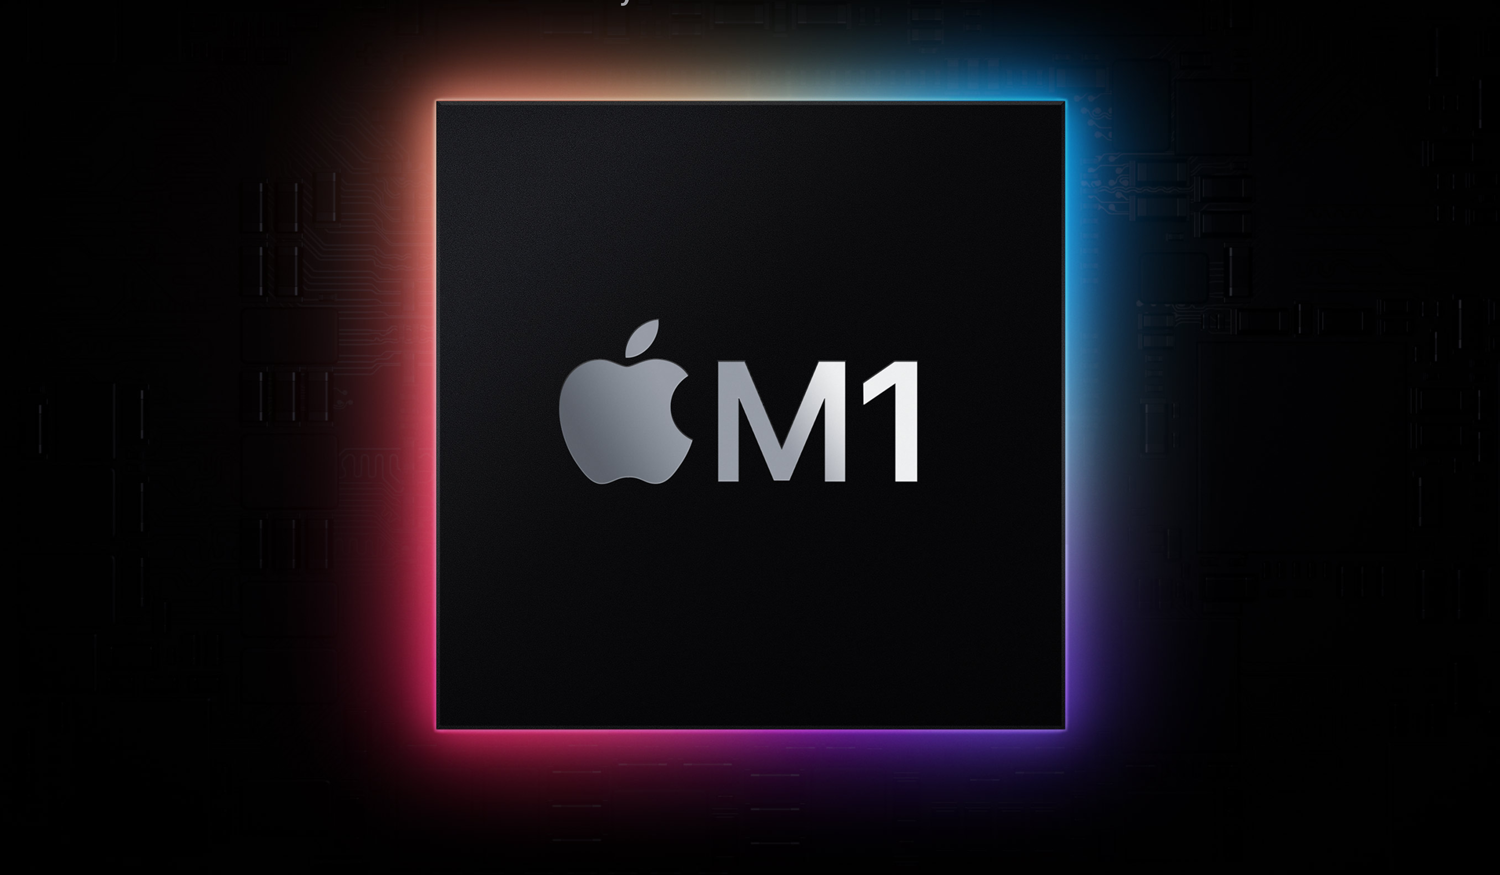
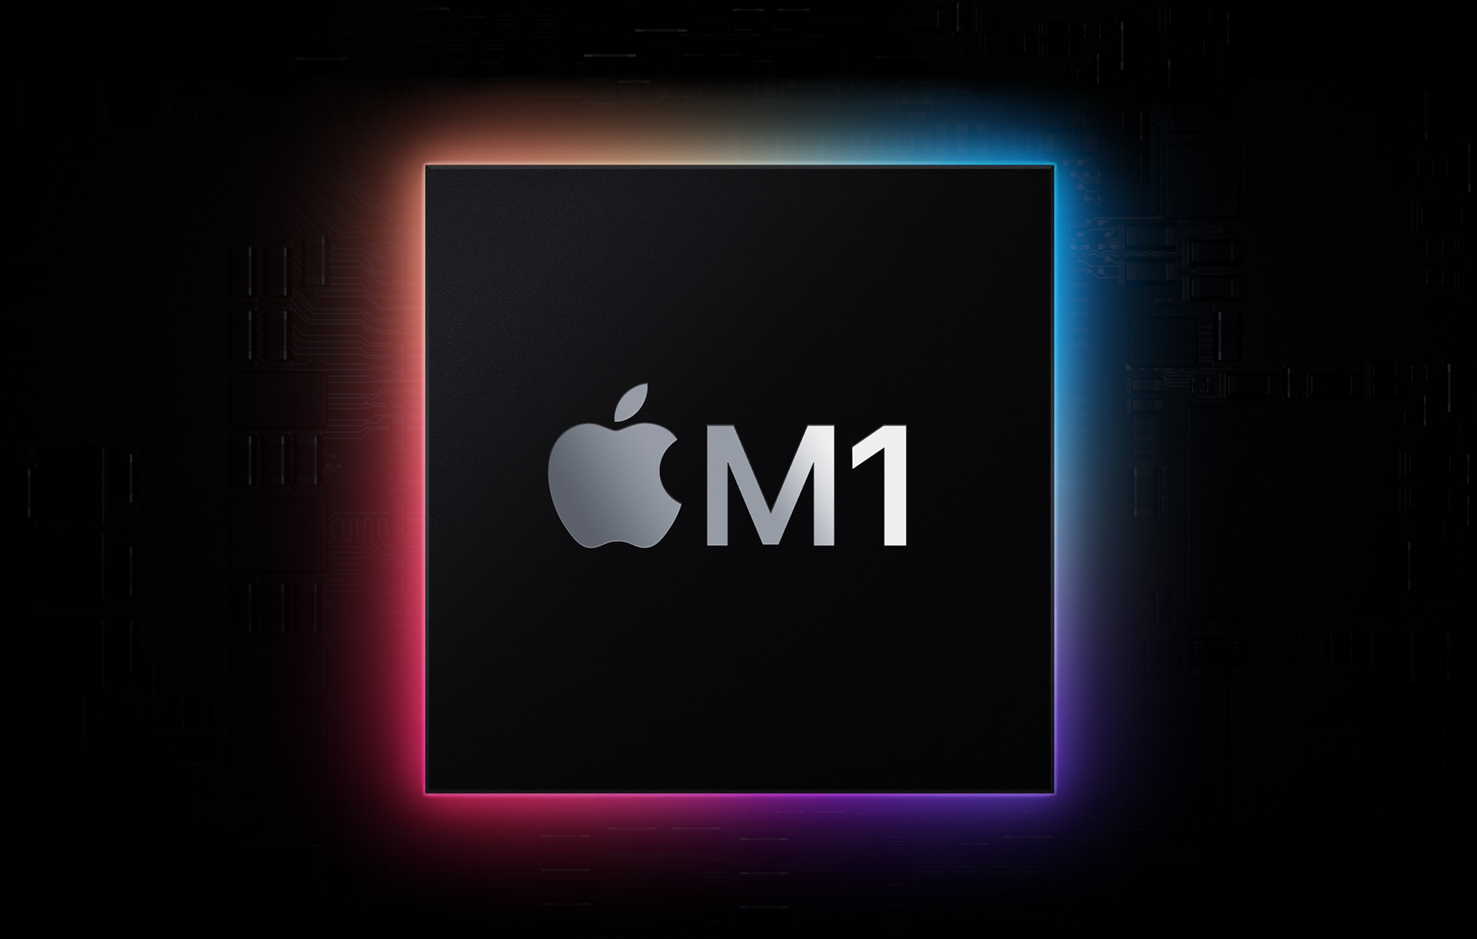
add responsive m1 chip image

Changed region(s): [[0.2492, 0.0, 0.7786, 0.864], [0.3737, 0.3703, 0.6229, 0.5863]]

diff --git a/css/styles.css b/css/styles.css
@@ -189,6 +189,7 @@ section {
 .m1-section {
     margin-top: 4.5rem;
     margin-left: 2rem;
+    position: relative;
 }
 
 .m1-section h2 {
@@ -231,6 +232,10 @@ section {
 
 #event-link a:hover {
     text-decoration: underline;
+}
+
+.m1-chip-big {
+    width: 100%;
 }
 
 /*media queries*/
@@ -314,6 +319,10 @@ section {
         margin: 0;
         font-size: 2.875rem;
     }
+
+    .m1-image {
+    margin-top: -3.125rem;
+}
 
 }
 
@@ -472,6 +481,10 @@ section {
         font-size: 4.3rem;
     }
 
+    .m1-image {
+    margin-top: -5.5rem;
+}
+
 }
 
 /*extra large devices*/
@@ -489,12 +502,12 @@ section {
     }
 
     .main-header-text {
-        margin: auto 15rem;
+        margin: auto 13rem;
     }
 
     .main-header-text p,
     .m1-section p {
-        font-size: 1.6rem;
+        font-size: 1.5rem;
         line-height: 2.313rem;
     }
 
@@ -525,6 +538,10 @@ section {
         margin: 0;
         font-size: 4.375rem;
     }
+
+    .m1-image {
+    margin-top: -6.5rem;
+}
 }
 
 /*big screens*/

diff --git a/index.html b/index.html
@@ -101,8 +101,11 @@
 		M1</h2>
 		<h3>Small chip. Giant leap</h3>
 		<p>Itʼs here. Our first chip designed specifically for Mac. Packed with an astonishing 16 billion transistors, the Apple M1 system on a chip (SoC) integrates the CPU, GPU, Neural Engine, I/O, and so much more onto a single tiny chip. With incredible performance, custom technologies, and industryleading power efficiency, M1 is not just a next step for Mac — itʼs another level entirely.</p>
-		<img src="images/m1-chip-big.png" alt="m1 chip" class="m1-chip-big full">
 	</section>
+
+	<div class="m1-image">
+		<img src="images/m1-chip-big.png" alt="m1 chip" class="m1-chip-big">
+	</div>
 
 
 
